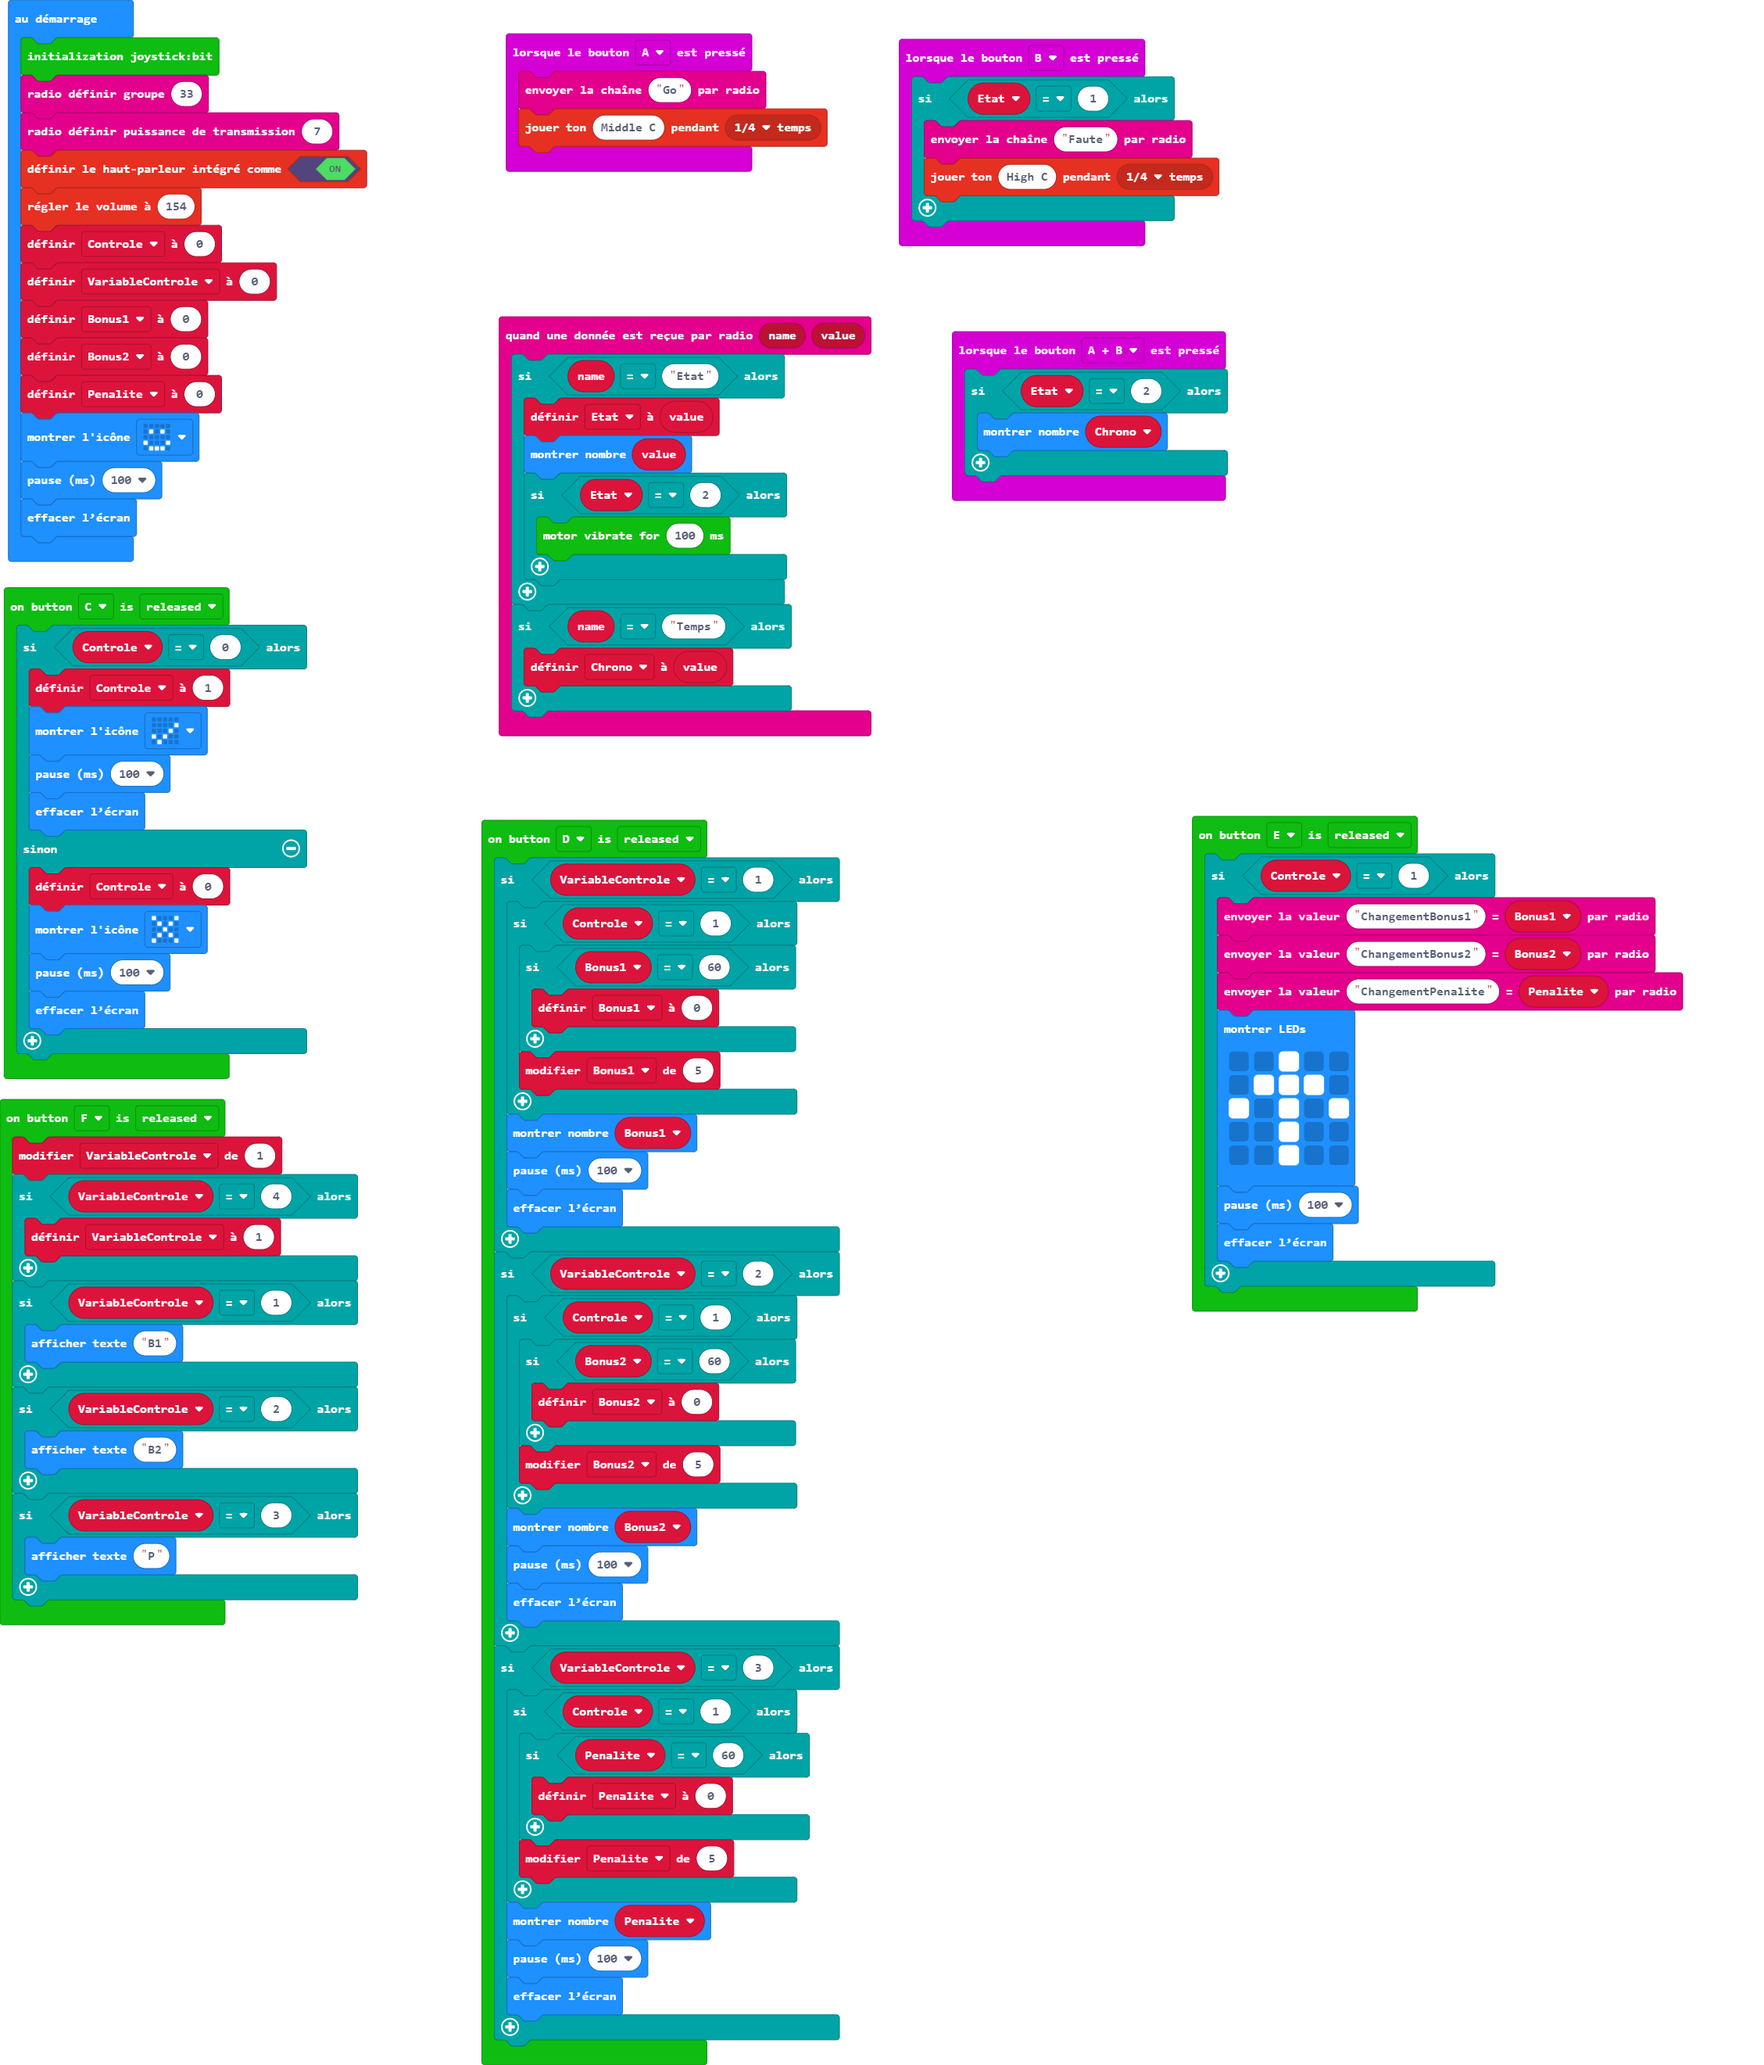
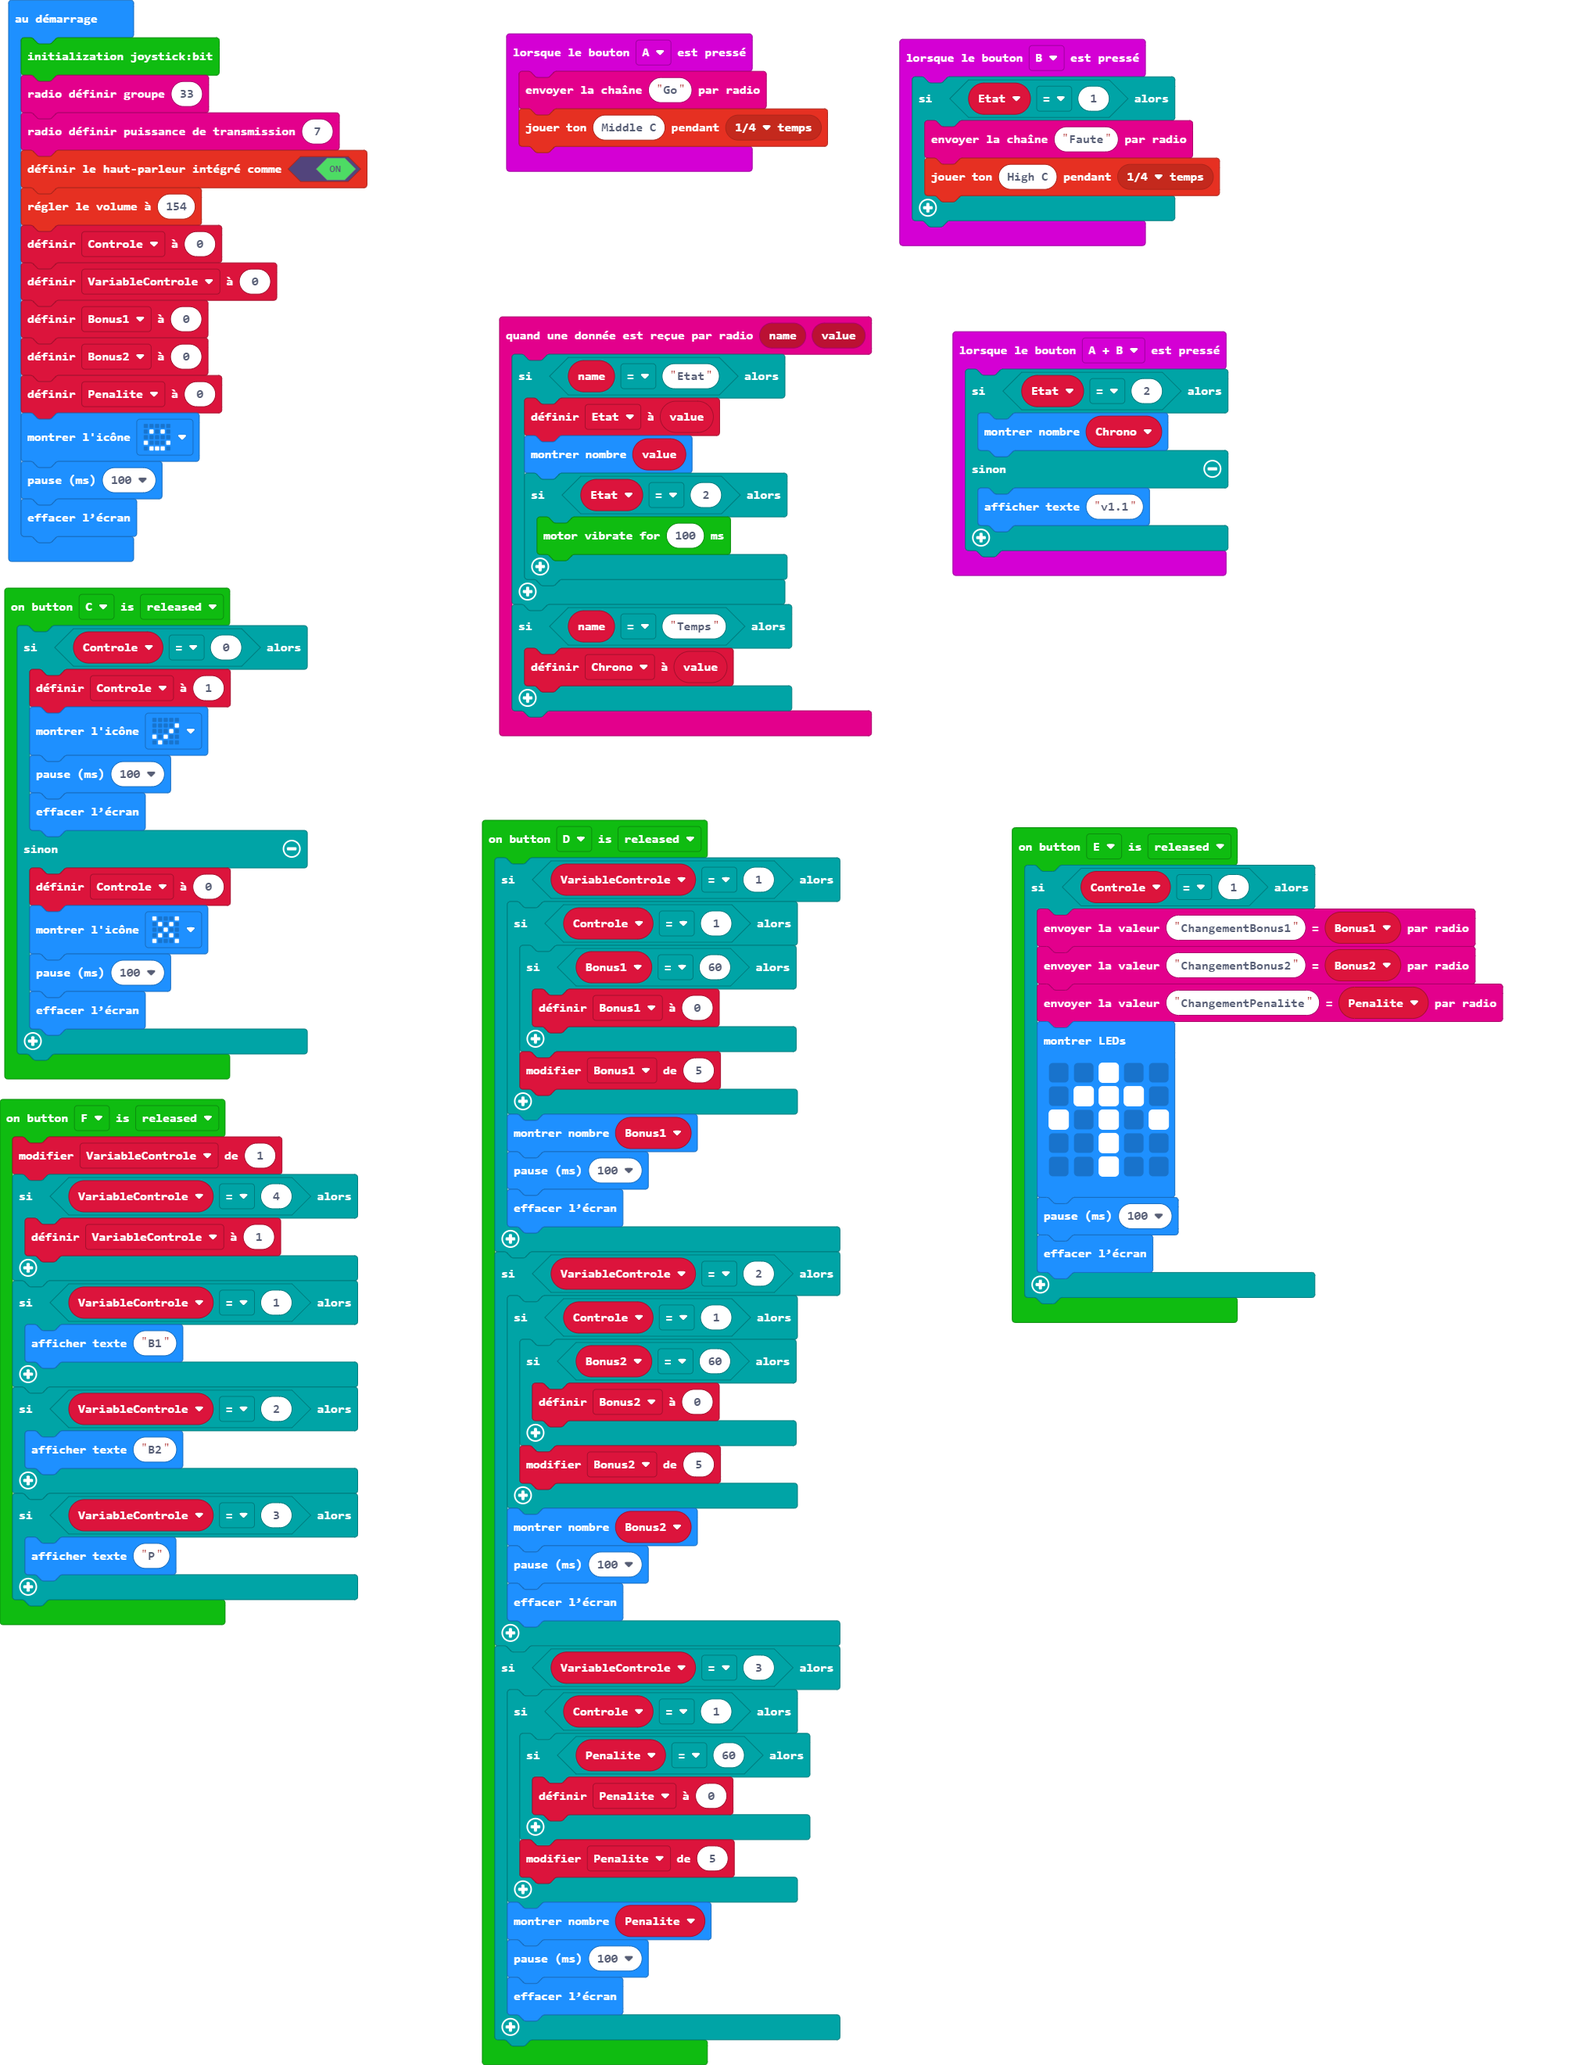
Mise à jour main.blocks, main.ts

diff --git a/main.ts b/main.ts
@@ -89,17 +89,7 @@ radio.onReceivedValue(function (name, value) {
     if (name == "Temps") {
         Chrono = value
     }
-    if (name == "Bonus1") {
-        Bonus1 = value
-    }
-    if (name == "Bonus2") {
-        Bonus2 = value
-    }
-    if (name == "Penalite") {
-        Penalite = value
-    }
 })
-// attention s'assurer que l'arbitre a toujours la valeur du hub en référence
 joystickbit.onButtonEvent(joystickbit.JoystickBitPin.P14, joystickbit.ButtonType.up, function () {
     if (Controle == 1) {
         radio.sendValue("ChangementBonus1", Bonus1)
